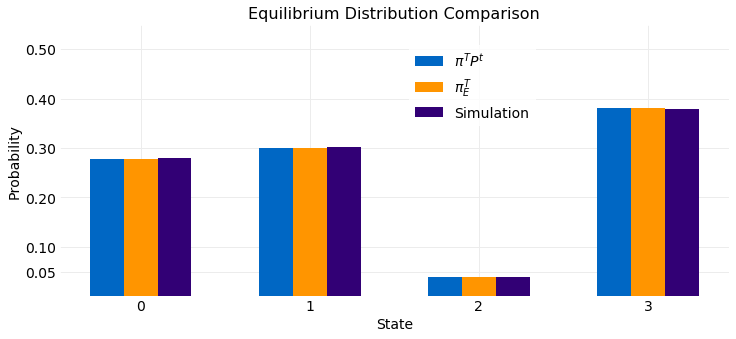
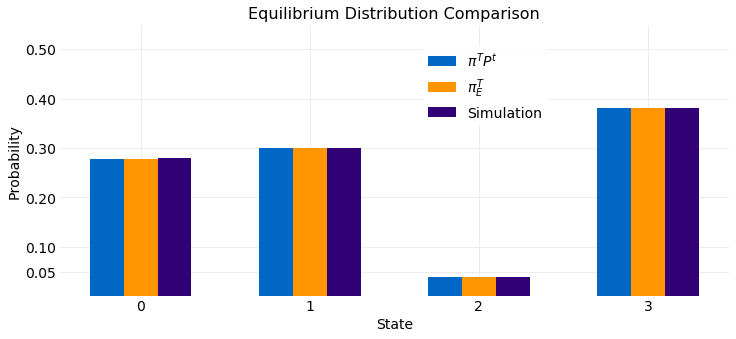
plot cleanup

Changed region(s): [[0.5625, 0.236, 0.75, 0.354], [0.5625, 0.1475, 0.6875, 0.2065]]

diff --git a/hydrogen_notebooks/mcmc/markov_chain_equilibium.py b/hydrogen_notebooks/mcmc/markov_chain_equilibium.py
@@ -177,5 +177,5 @@ axis.set_xticks([0, 1, 2, 3])
 axis.bar(states - 0.2, computed_pdf, 0.2, label=r'$\pi^T P^t$', zorder=5)
 axis.bar(states, πe, 0.2, label=r'$\pi^T_E$', lw="3", zorder=10)
 axis.bar(states + 0.2, simpulated_pdf, 0.2, label="Simulation", lw="3", zorder=10)
-axis.legend(bbox_to_anchor=(0.72, 0.95))
+axis.legend(bbox_to_anchor=(0.74, 0.95))
 config.save_post_asset(figure, "discrete_state_markov_chain_equilibrium", "distribution_comparison")
